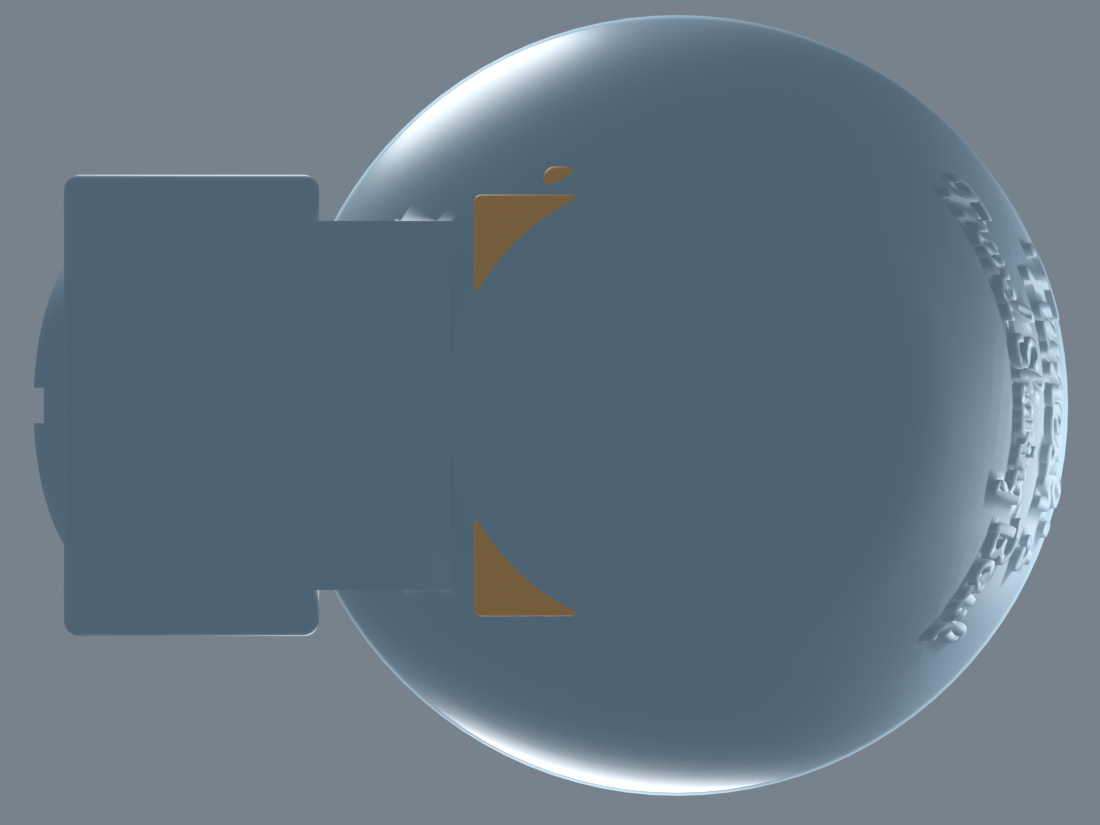
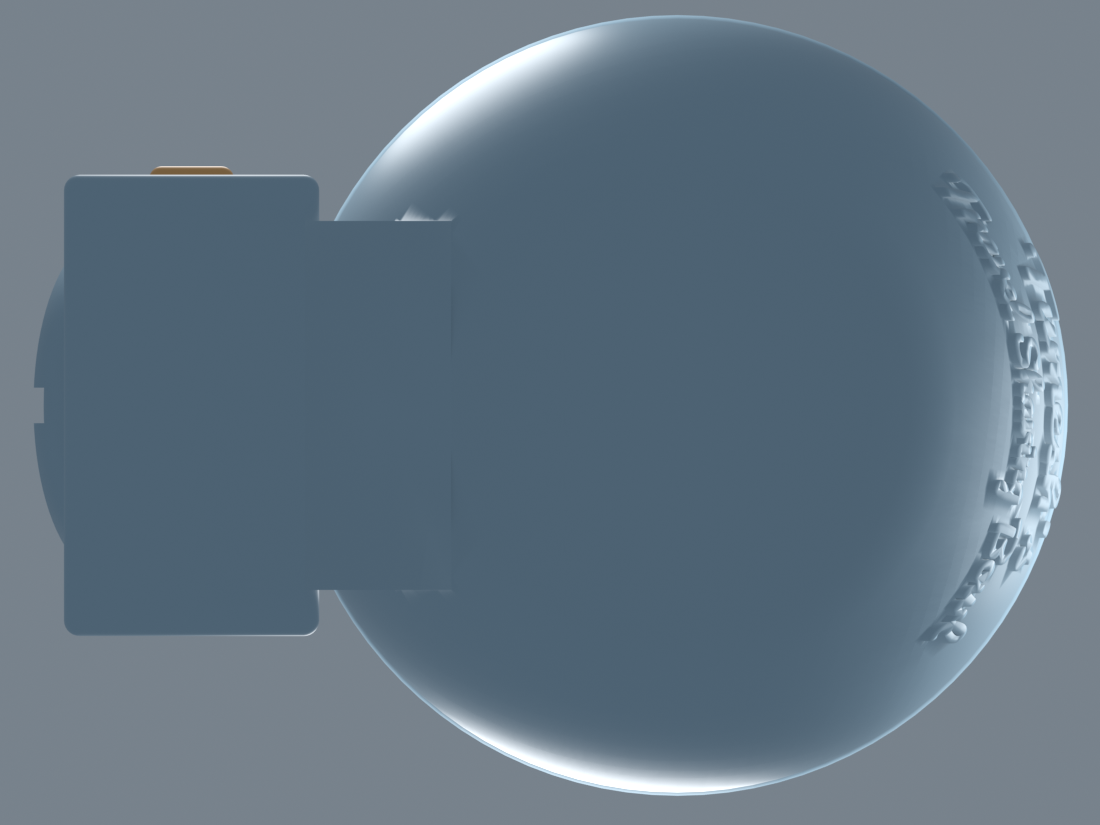
Fix drawer placement in Blender renders for Standard bowl vault (x=68.5, z=3.3)

Changed region(s): [[0.4327, 0.1818, 0.5255, 0.3636], [0.4327, 0.6364, 0.5255, 0.7576], [0.1236, 0.1818, 0.2164, 0.2121]]

diff --git a/renders/render_previews.py b/renders/render_previews.py
@@ -44,14 +44,17 @@ def add_body(with_drawer=True, open_drawer=False, blades=False):
     drawer = None
     if with_drawer:
         drawer = import_mesh(DRAWER, "Separate sliding drawer", DRAWER_MAT)[0]
-        # Align drawer along X with Standard bowl's vault (vault_center_x is shifted by +13 mm compared to travel)
-        drawer.location.x += 13.0
+        # blade_drawer.stl was exported recentered at (0, 0, 0) resting on the bed.
+        # In the standard bowl, the vault center is at vault_center_x() = 68.5,
+        # and the drawer vertical elevation in assembly is z = drawer_z() - drawer_outer_height()/2 = 3.3.
+        drawer.location.x += 68.5
+        drawer.location.z += 3.3
         if open_drawer:
             drawer.location.y += 45.0
     if blades:
         # Generate a single tuck block centered inside the drawer
         y_loc = 45.0 if open_drawer else 0.0
-        bpy.ops.mesh.primitive_cube_add(size=1, location=(68.5, y_loc, 8.8))
+        bpy.ops.mesh.primitive_cube_add(size=1, location=(68.5, y_loc, 9.3))
         blade = bpy.context.object
         blade.name = "Illustrative DE blade"
         blade.dimensions = (28.0, 56.0, 10.0)
@@ -162,7 +165,7 @@ def section_scene(name, axis, plane, direction, target, scale, blades=False, ope
         cut_half(drawer, axis, plane)
     render(name, target, direction, scale)
 
-print("Starting Blender renders for Standard bowl...")
+print("Starting Blender renders with drawer properly positioned in vault...")
 standard_scene("01-isometric.png")
 standard_scene("02-top.png", target=(18, -1, 30), direction=(0, 0, 1), scale=155)
 standard_scene("03-side.png", target=(18, -1, 30), direction=(0, -1, 0), scale=150)
@@ -170,8 +173,8 @@ standard_scene("04-bottom.png", target=(18, -1, 24), direction=(0, 0, -1), scale
 standard_scene("05-lather-surface-closeup.png", target=(0, 0, 15), direction=(0.2, -0.4, 1), scale=90)
 section_scene("06-texture-section.png", 1, 0, (0, 1, 0), (0, 0, 20), 140)
 section_scene("07-handle-section.png", 1, 0, (0, 1, 0), (58, 0, 22), 95)
-section_scene("08-centered-blade-compartment.png", 0, 66.5, (1, 0, 0), (66.5, 0, 9), 85, blades=True)
-section_scene("09-blade-drawer-section.png", 0, 66.5, (1, 0, 0), (66.5, 0, 9), 85, blades=True)
+section_scene("08-centered-blade-compartment.png", 0, 68.5, (1, 0, 0), (68.5, 0, 9), 85, blades=True)
+section_scene("09-blade-drawer-section.png", 0, 68.5, (1, 0, 0), (68.5, 0, 9), 85, blades=True)
 standard_scene("10-razor-in-dock.png", parked_razor=True)
 standard_scene("11-drawer-installed.png")
 standard_scene("12-drawer-partially-open.png", open_drawer=True)
